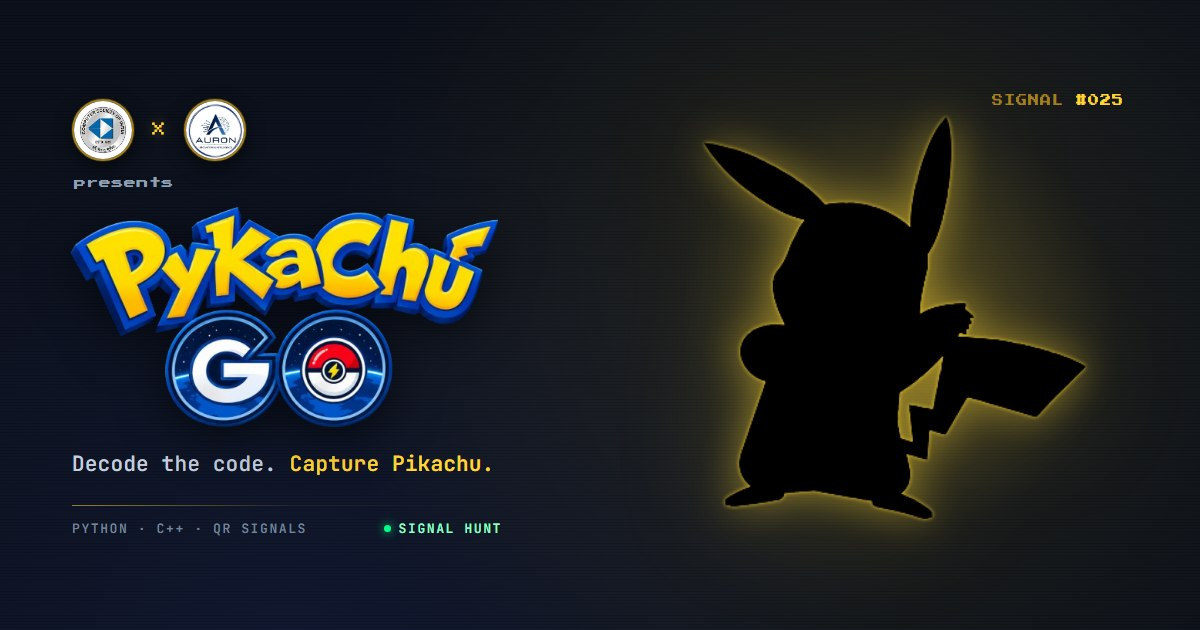
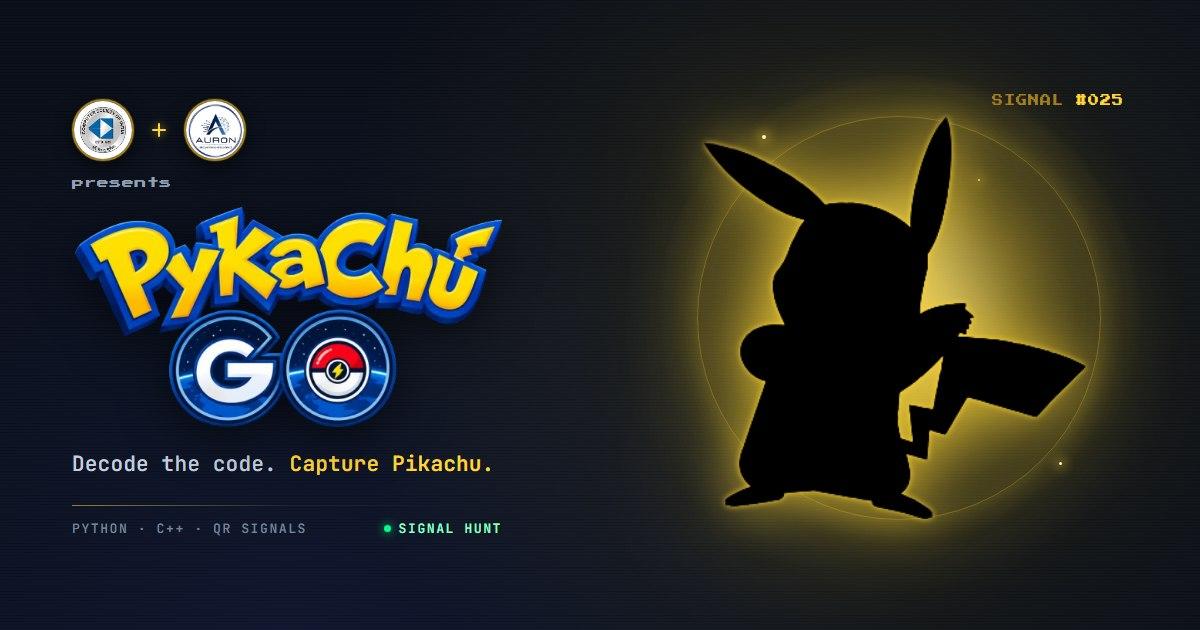
Polish social card: brighter gold glow and aligned CSI/Auron marks

diff --git a/scripts/og-card.html b/scripts/og-card.html
@@ -97,17 +97,51 @@
             display: block;
         }
 
+        /* The two source photos frame their subjects differently (CSI has a
+           wide white margin, Auron nearly fills the frame). Normalise both so
+           the faces read at the same scale inside their rings. */
+        .mark--csi img {
+            transform: scale(1.08);
+        }
+
+        .mark--auron img {
+            transform: scale(0.92);
+        }
+
+        /* Drawn cross instead of a "×" glyph: the pixel font has no multiplication
+           sign, so the fallback glyph never sits dead-centre between the rings. */
         .cross {
-            font-family: var(--pixel);
-            font-size: 18px;
-            line-height: 1;
-            color: var(--gold);
-            text-shadow: 0 0 12px rgba(255, 214, 51, 0.45);
+            position: relative;
+            width: 18px;
+            height: 18px;
             flex: none;
         }
 
+        .cross::before,
+        .cross::after {
+            content: '';
+            position: absolute;
+            left: 50%;
+            top: 50%;
+            background: var(--gold);
+            border-radius: 1px;
+            box-shadow: 0 0 10px rgba(255, 214, 51, 0.6);
+        }
+
+        .cross::before {
+            width: 14px;
+            height: 2px;
+            transform: translate(-50%, -50%);
+        }
+
+        .cross::after {
+            width: 2px;
+            height: 14px;
+            transform: translate(-50%, -50%);
+        }
+
         .presents {
-            margin: 16px 0 0 2px;
+            margin: 16px 0 0 0;
             font-family: var(--pixel);
             font-size: 12px;
             letter-spacing: 0.5px;
@@ -118,7 +152,7 @@
             display: block;
             width: 430px;
             height: auto;
-            margin: 18px 0 0 -4px;
+            margin: 18px 0 0 0;
             filter: drop-shadow(0 10px 24px rgba(0, 0, 0, 0.55));
         }
 
@@ -179,26 +213,67 @@
             place-items: center;
         }
 
-        .halo {
+        /* Wide bloom bleeding past the frame edges. */
+        .art::before {
+            content: '';
             position: absolute;
-            width: 440px;
-            height: 440px;
+            width: 580px;
+            height: 580px;
             border-radius: 50%;
             background: radial-gradient(circle,
-                    rgba(255, 214, 51, 0.17),
-                    rgba(255, 214, 51, 0.06) 46%,
-                    transparent 70%);
+                    rgba(255, 214, 51, 0.26),
+                    rgba(255, 214, 51, 0.09) 42%,
+                    transparent 68%);
+            filter: blur(12px);
+        }
+
+        .halo {
+            position: absolute;
+            width: 480px;
+            height: 480px;
+            border-radius: 50%;
+            background: radial-gradient(circle at 50% 45%,
+                    rgba(255, 238, 160, 0.46),
+                    rgba(255, 214, 51, 0.20) 34%,
+                    rgba(255, 214, 51, 0.07) 55%,
+                    transparent 72%);
+            filter: blur(4px);
+        }
+
+        /* Hot core right behind the silhouette. */
+        .halo::after {
+            content: '';
+            position: absolute;
+            inset: 21%;
+            border-radius: 50%;
+            background: radial-gradient(circle,
+                    rgba(255, 244, 190, 0.55),
+                    rgba(255, 214, 51, 0.14) 58%,
+                    transparent 76%);
+            filter: blur(24px);
+        }
+
+        /* Thin shine ring so the glow has an edge instead of a mush. */
+        .ring {
+            position: absolute;
+            width: 404px;
+            height: 404px;
+            border-radius: 50%;
+            border: 1px solid rgba(255, 214, 51, 0.30);
+            box-shadow:
+                0 0 28px rgba(255, 214, 51, 0.20),
+                inset 0 0 30px rgba(255, 214, 51, 0.10);
         }
 
         /* brightness(0) flattens the artwork into a single shadow tone;
            the drop-shadows trace only its outline, giving a gold rim light
-           (a tight 2px edge so the silhouette still reads in a thumbnail). */
+           (a tight 3px edge so the silhouette still reads in a thumbnail). */
         .art img {
             position: relative;
             width: 400px;
             height: auto;
             filter:
-                brightness(0) saturate(0) drop-shadow(0 0 2px rgba(255, 214, 51, 0.85)) drop-shadow(0 0 20px rgba(255, 214, 51, 0.45)) drop-shadow(0 0 58px rgba(255, 214, 51, 0.18));
+                brightness(0) saturate(0) drop-shadow(0 0 3px rgba(255, 214, 51, 0.95)) drop-shadow(0 0 26px rgba(255, 214, 51, 0.62)) drop-shadow(0 0 72px rgba(255, 214, 51, 0.30));
         }
 
         .signal {
@@ -214,6 +289,36 @@
         .signal span {
             color: var(--gold);
         }
+
+        /* A few glints to sell the shine without adding noise. */
+        .spark {
+            position: absolute;
+            width: 4px;
+            height: 4px;
+            border-radius: 50%;
+            background: #fff3b8;
+            box-shadow: 0 0 12px 2px rgba(255, 214, 51, 0.85);
+        }
+
+        .spark--a {
+            top: 52px;
+            left: 92px;
+        }
+
+        .spark--b {
+            bottom: 88px;
+            right: 66px;
+            width: 3px;
+            height: 3px;
+        }
+
+        .spark--c {
+            top: 96px;
+            right: 148px;
+            width: 2px;
+            height: 2px;
+            opacity: 0.8;
+        }
     </style>
 </head>
 
@@ -222,7 +327,7 @@
         <div class="column">
             <div class="partner-row">
                 <span class="mark"><img src="../assets/img/csi.jpg" alt="CSI"></span>
-                <span class="cross" aria-hidden="true">&times;</span>
+                <span class="cross" aria-hidden="true"></span>
                 <span class="mark"><img src="../assets/img/auron.png" alt="Auron"></span>
             </div>
 
@@ -241,7 +346,11 @@
 
         <div class="art">
             <div class="halo"></div>
+            <div class="ring"></div>
             <img src="../assets/img/pikachu.png" alt="Pikachu silhouette">
+            <i class="spark spark--a" aria-hidden="true"></i>
+            <i class="spark spark--b" aria-hidden="true"></i>
+            <i class="spark spark--c" aria-hidden="true"></i>
             <div class="signal">SIGNAL <span>#025</span></div>
         </div>
     </div>
